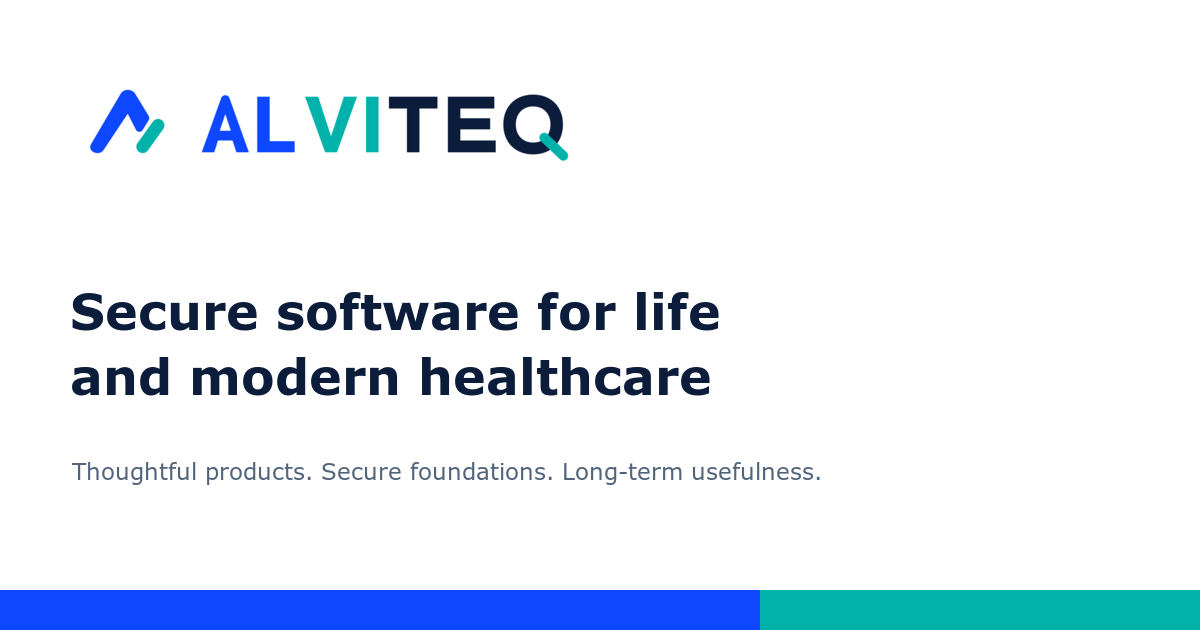
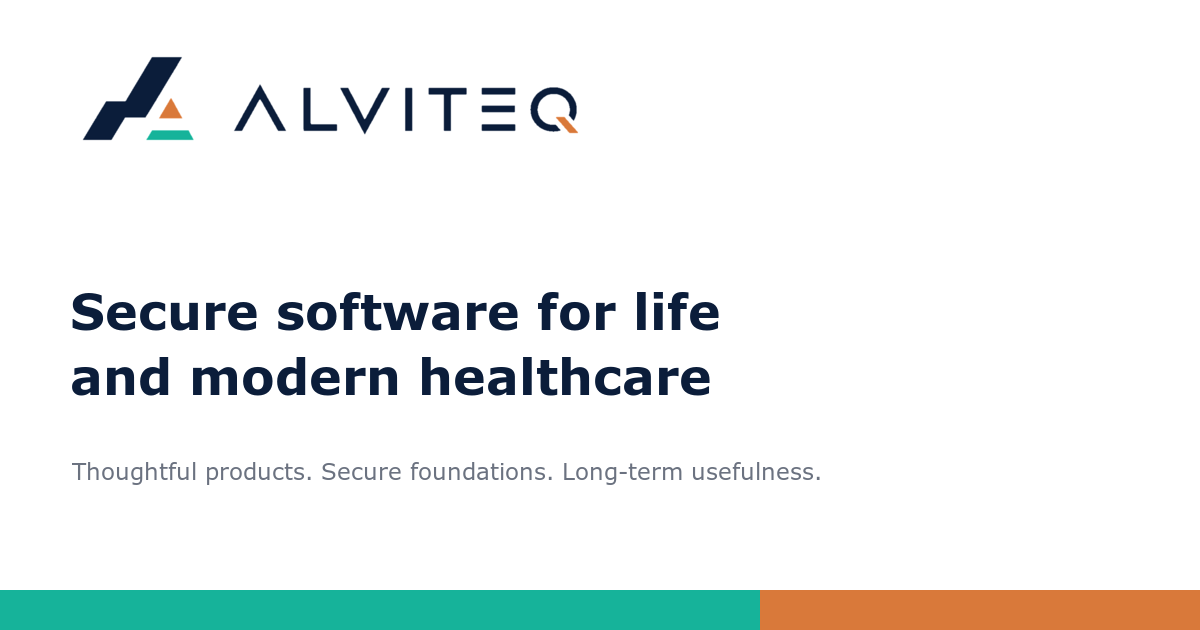
update

Changed region(s): [[0.0, 0.9349, 1.0, 1.0], [0.0617, 0.0905, 0.4933, 0.2714], [0.0617, 0.7238, 0.0925, 0.754]]

diff --git a/src/app/page.tsx b/src/app/page.tsx
@@ -21,7 +21,7 @@ export default function Home() {
       <p className="hero-brand reveal">Independent product technology company</p>
       <h1 className="reveal delay-1">Secure products for everyday life<br />and <span>modern healthcare.</span></h1>
       <div className="v2-hero-bottom reveal delay-2"><p>ALVITEQ creates dependable digital products for individuals, organisations, and healthcare teams—designed with clarity, security, and long-term usefulness.</p><div className="actions"><Link className="button" href="/products">Explore our products</Link><Link className="text-link" href="/contact">Talk to ALVITEQ <span aria-hidden="true">↗</span></Link></div></div>
-      <Image className="v2-hero-mark" src="/brand/official/alviteq-icon.svg" width={512} height={512} alt="" priority />
+      <Image className="v2-hero-mark" src="/brand/official/alviteq-icon-512.png" width={512} height={512} alt="" priority />
     </div></section>
 
     <section className="portfolio-section section"><div className="container">
@@ -37,6 +37,6 @@ export default function Home() {
     <section className="v2-trust section"><div className="container"><div className="v2-section-label"><span>03</span><p>How we build trust</p></div><div className="v2-trust-heading"><h2>Strong engineering.<br />Clear responsibility.</h2><p>Our products are shaped by useful outcomes, responsible data practices, accessible experiences, and honest product claims.</p></div><div className="principle-list">{principles.map(([title,body], index) => <article key={title}><span>0{index + 1}</span><h3>{title}</h3><p>{body}</p></article>)}</div><Link className="text-link section-link" href="/trust">Visit the Trust Centre <span aria-hidden="true">↗</span></Link></div></section>
     <section className="section technology-bridge"><div className="container split"><div><p className="eyebrow">Technology and engineering</p><h2>Different contexts. The same disciplined approach.</h2></div><div><p className="lead">OwnKeep prioritises local control and portable encrypted records. ALVITEQ HMS is being designed for coordinated, accountable hospital workflows. Both begin with security, clarity, and long-term reliability.</p><Link className="text-link" href="/technology">Explore our technology approach <span aria-hidden="true">↗</span></Link></div></div></section>
     <section className="v2-roadmap section"><div className="container"><div className="v2-section-label"><span>04</span><p>Company direction</p></div><div className="direction-grid"><div><p className="eyebrow">Our mission</p><h2>Build secure, thoughtful software for everyday life and modern healthcare.</h2></div><div><p>ALVITEQ is building a focused portfolio for people, organisations, and healthcare teams.</p><p>We communicate product status honestly and introduce capabilities only when their purpose and availability can be described clearly.</p><Link className="text-link" href="/about">Meet ALVITEQ <span aria-hidden="true">↗</span></Link></div></div></div></section>
-    <section className="v2-final"><div className="container v2-final-inner"><Image src="/brand/official/alviteq-icon-white.svg" width={512} height={512} alt="" /><div><p className="eyebrow">Technology people can trust</p><h2>Have a useful problem<br />worth solving?</h2><p className="final-copy">Talk with ALVITEQ about OwnKeep, ALVITEQ HMS, product partnerships, or future opportunities.</p><Link className="button light" href="/contact">Contact ALVITEQ</Link></div></div></section>
+    <section className="v2-final"><div className="container v2-final-inner"><Image src="/brand/official/alviteq-icon-white-512.png" width={512} height={512} alt="" /><div><p className="eyebrow">Technology people can trust</p><h2>Have a useful problem<br />worth solving?</h2><p className="final-copy">Talk with ALVITEQ about OwnKeep, ALVITEQ HMS, product partnerships, or future opportunities.</p><Link className="button light" href="/contact">Contact ALVITEQ</Link></div></div></section>
   </>;
 }

diff --git a/src/app/layout.tsx b/src/app/layout.tsx
@@ -14,10 +14,9 @@ export const metadata: Metadata = {
   robots: { index: true, follow: true },
   icons: {
     icon: [
-      { url: "/brand/official/alviteq-icon-32.png", sizes: "32x32", type: "image/png" },
-      { url: "/brand/official/alviteq-icon-48.png", sizes: "48x48", type: "image/png" },
+      { url: "/favicon.ico", sizes: "any" },
     ],
-    apple: "/brand/official/alviteq-icon-192.png",
+    apple: "/brand/apple-touch-icon.png",
   },
   openGraph: {
     title: "ALVITEQ | Secure Software for Life and Healthcare",
@@ -76,8 +75,8 @@ export default function RootLayout({ children }: Readonly<{ children: React.Reac
                 className="brand-logo"
                 src="/brand/official/alviteq-horizontal.svg"
                 alt="ALVITEQ"
-                width={1500}
-                height={400}
+                width={1230}
+                height={207}
                 priority
               />
             </Link>
@@ -98,8 +97,8 @@ export default function RootLayout({ children }: Readonly<{ children: React.Reac
                   className="footer-logo"
                   src="/brand/official/alviteq-horizontal-white.svg"
                   alt="ALVITEQ"
-                  width={1500}
-                  height={400}
+                  width={1230}
+                  height={207}
                 />
                 <p>Technology people can trust. Innovation built to last.</p>
               </div>

diff --git a/src/app/manifest.ts b/src/app/manifest.ts
@@ -12,8 +12,8 @@ export default function manifest(): MetadataRoute.Manifest {
     background_color: "#ffffff",
     theme_color: "#0B1D3A",
     icons: [
-      { src: "/brand/official/alviteq-icon-192.png", sizes: "192x192", type: "image/png" },
-      { src: "/brand/official/alviteq-icon-512.png", sizes: "512x512", type: "image/png" },
+      { src: "/brand/alviteq-symbol-192.png", sizes: "192x192", type: "image/png" },
+      { src: "/brand/alviteq-symbol-512.png", sizes: "512x512", type: "image/png" },
       {
         src: "/brand/pwa-maskable-512.png",
         sizes: "512x512",
